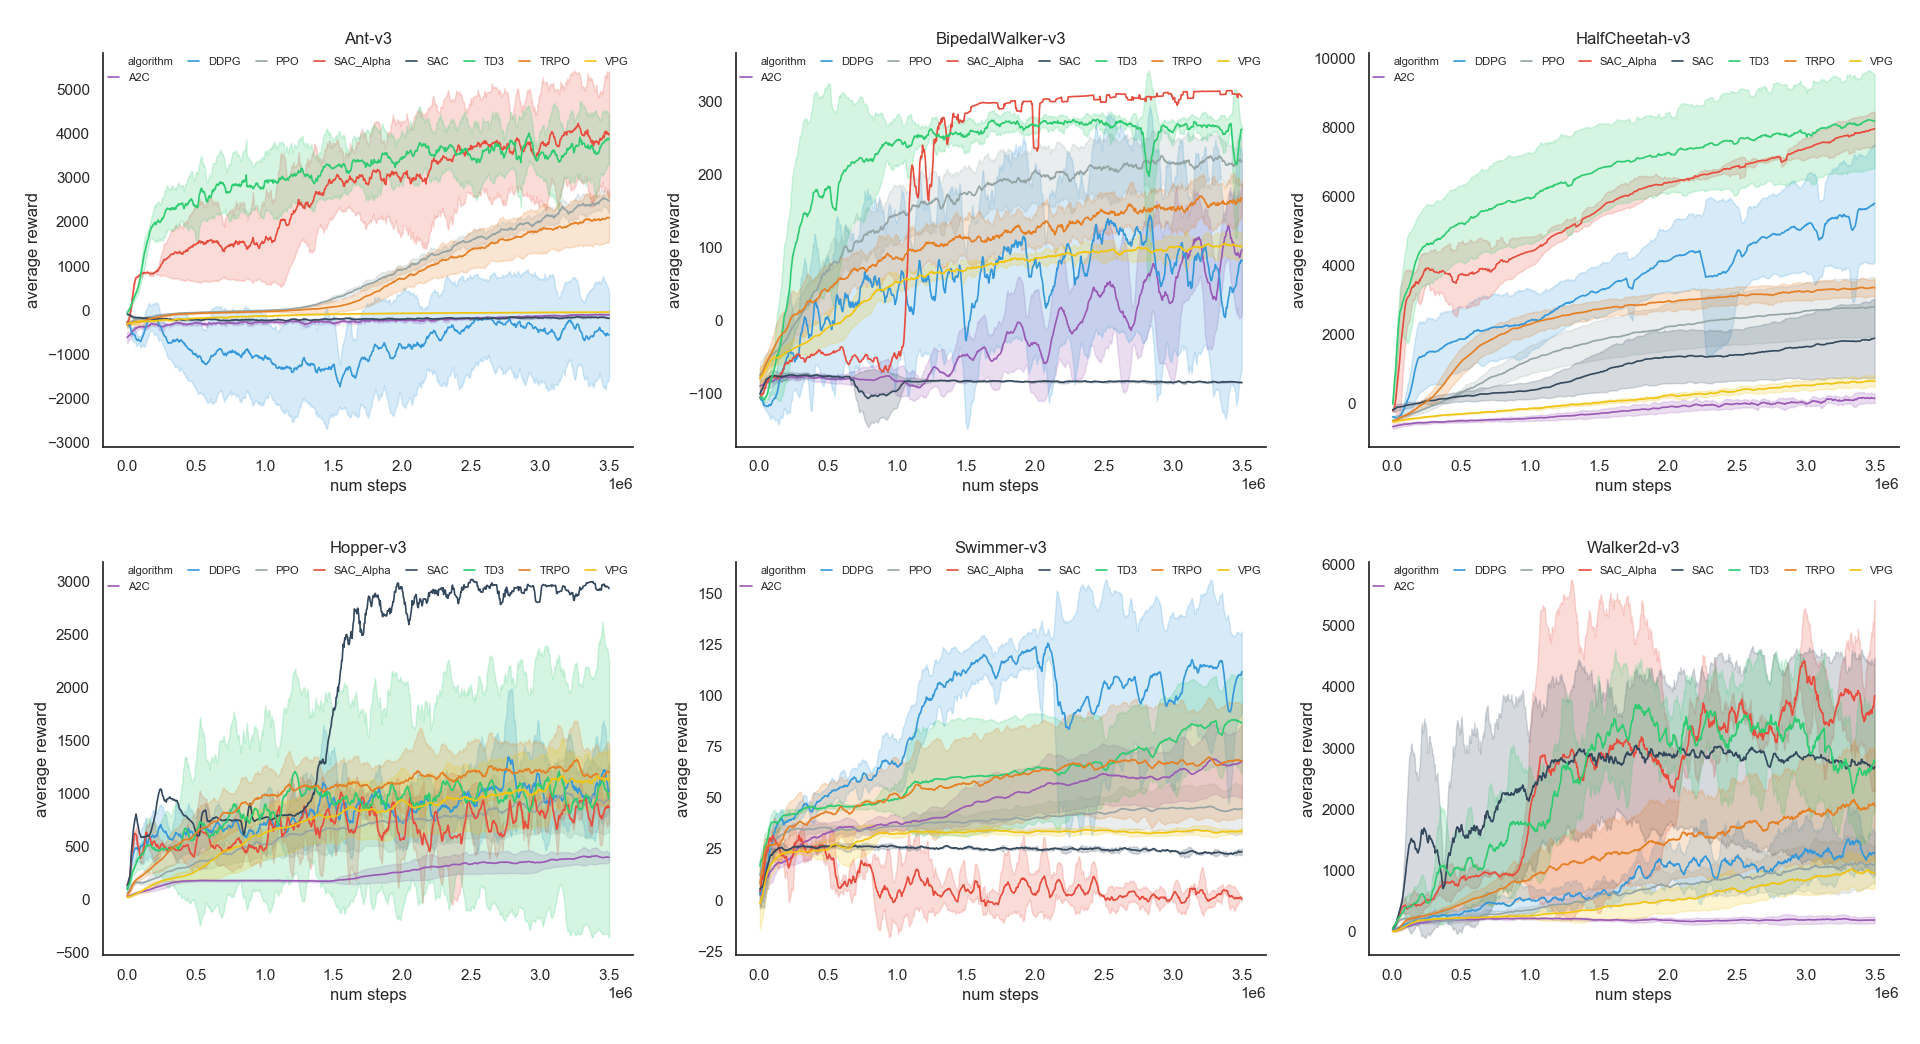
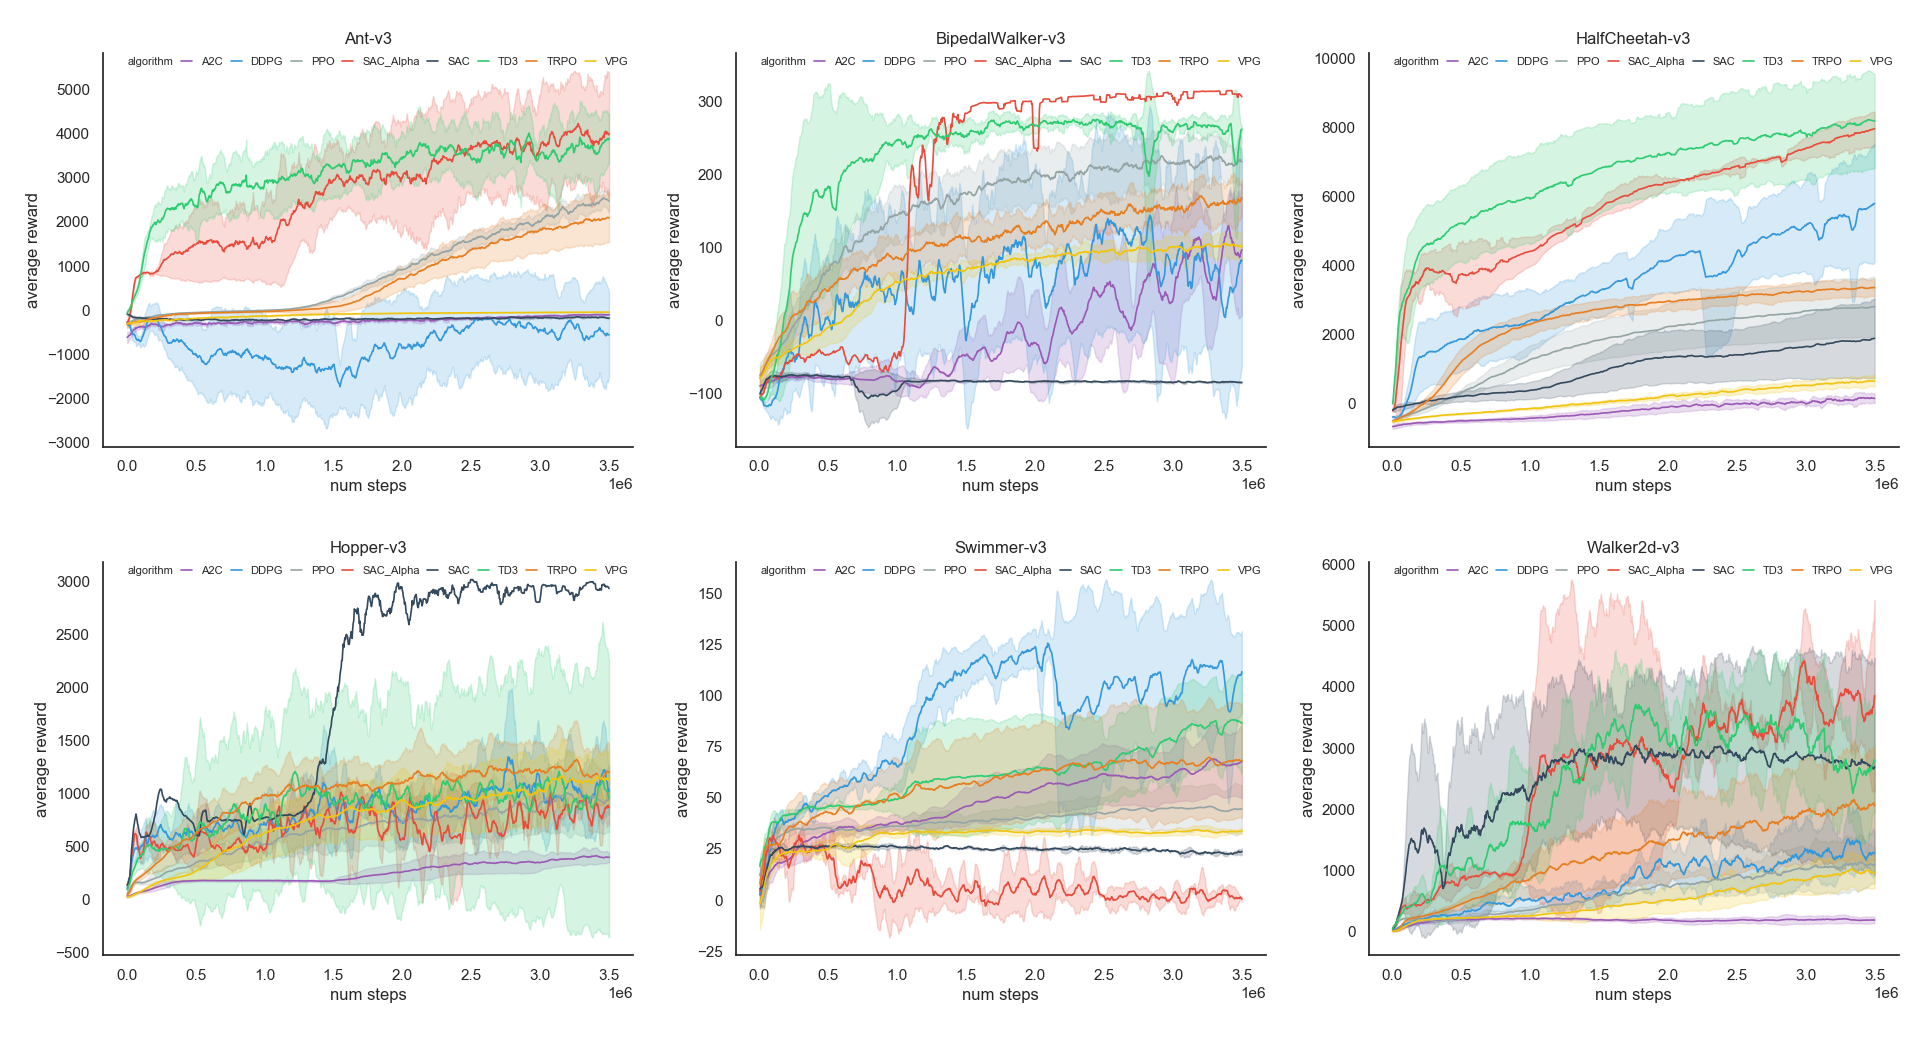
Update Benchmarks

diff --git a/Utils/plot_util.py b/Utils/plot_util.py
@@ -48,7 +48,7 @@ def plot_data(data, x_axis='num steps', y_axis="average reward", hue="algorithm"
     sns.lineplot(data=data, x=x_axis, y=y_axis, hue=hue, ci='sd', ax=ax, **kwargs)
     # ax.legend(loc='best').set_draggable(True)
     """Spining up style"""
-    ax.legend(loc='upper center', ncol=8, handlelength=1, frameon=False,
+    ax.legend(loc='upper center', ncol=9, handlelength=1, frameon=False,
               mode="expand", borderaxespad=0.02, prop={'size': 8})
 
     xscale = np.max(np.asarray(data[x_axis])) > 5e3
